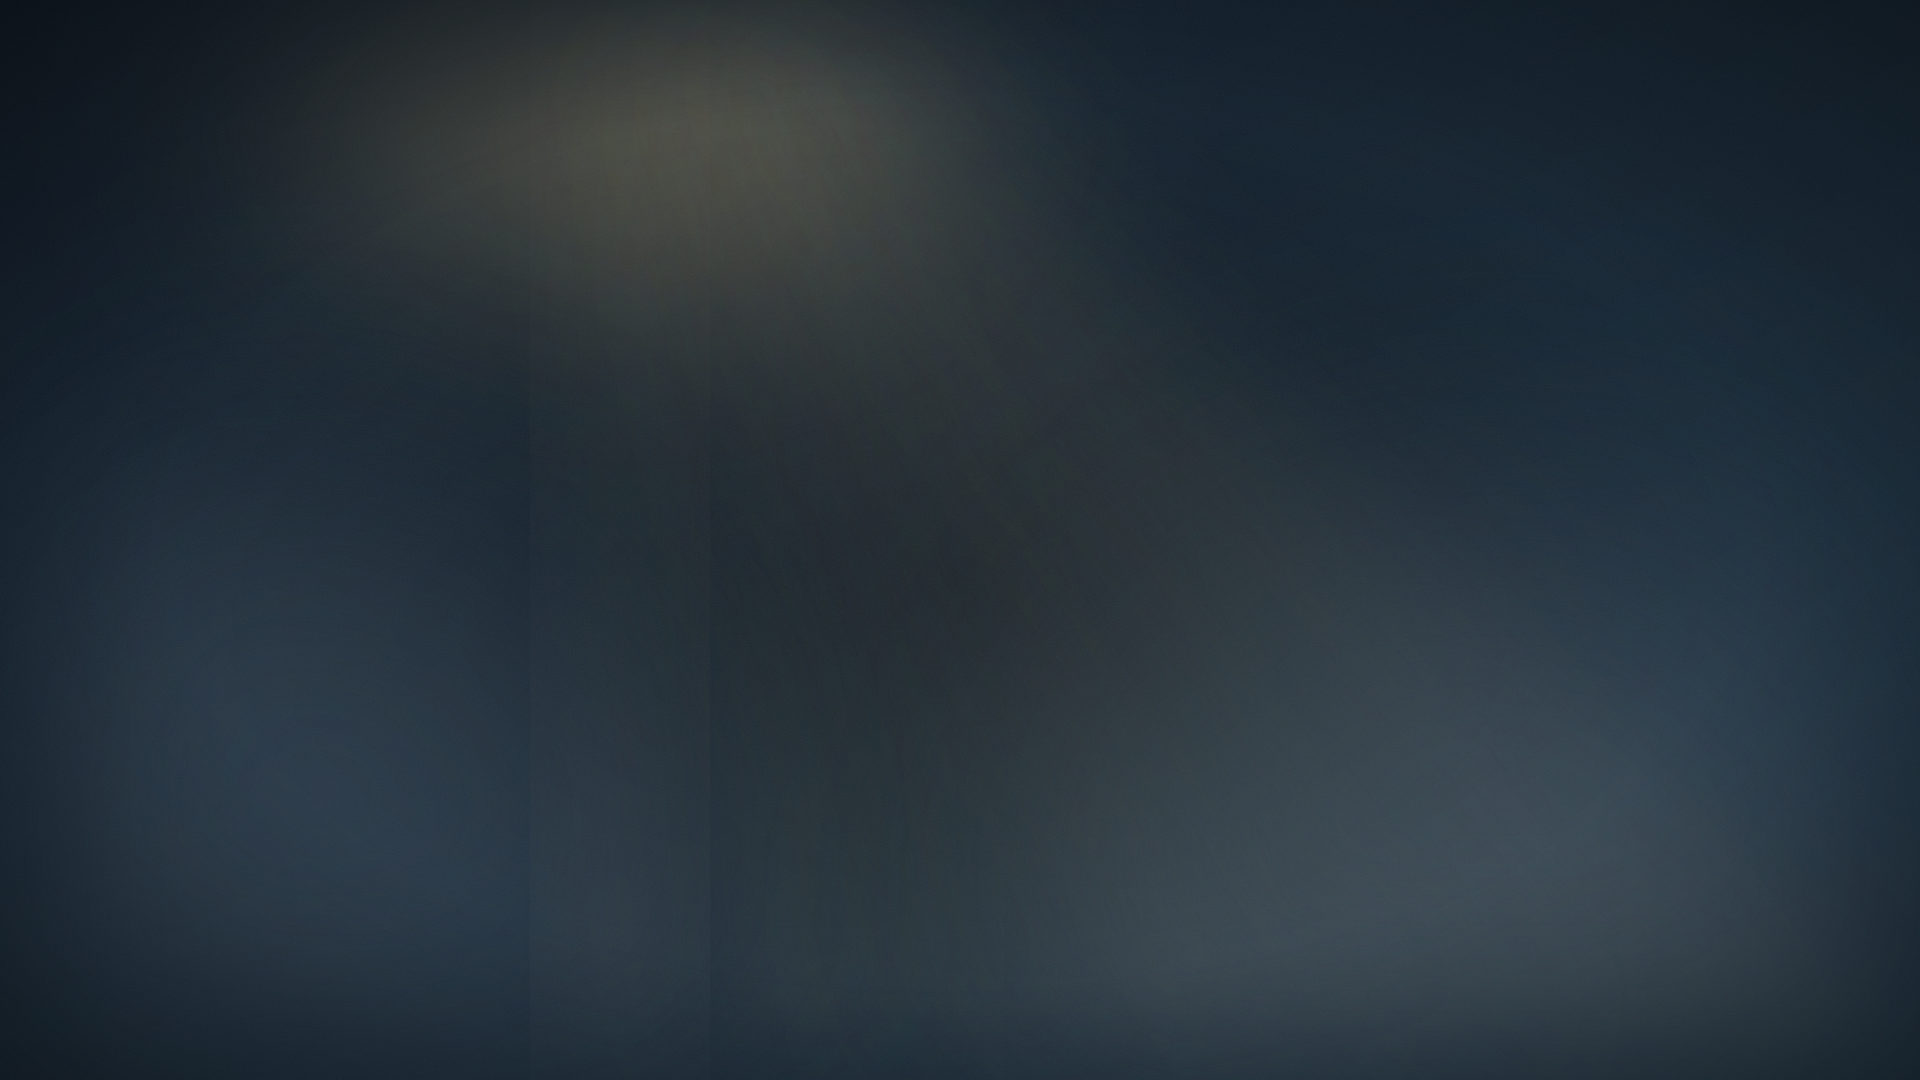
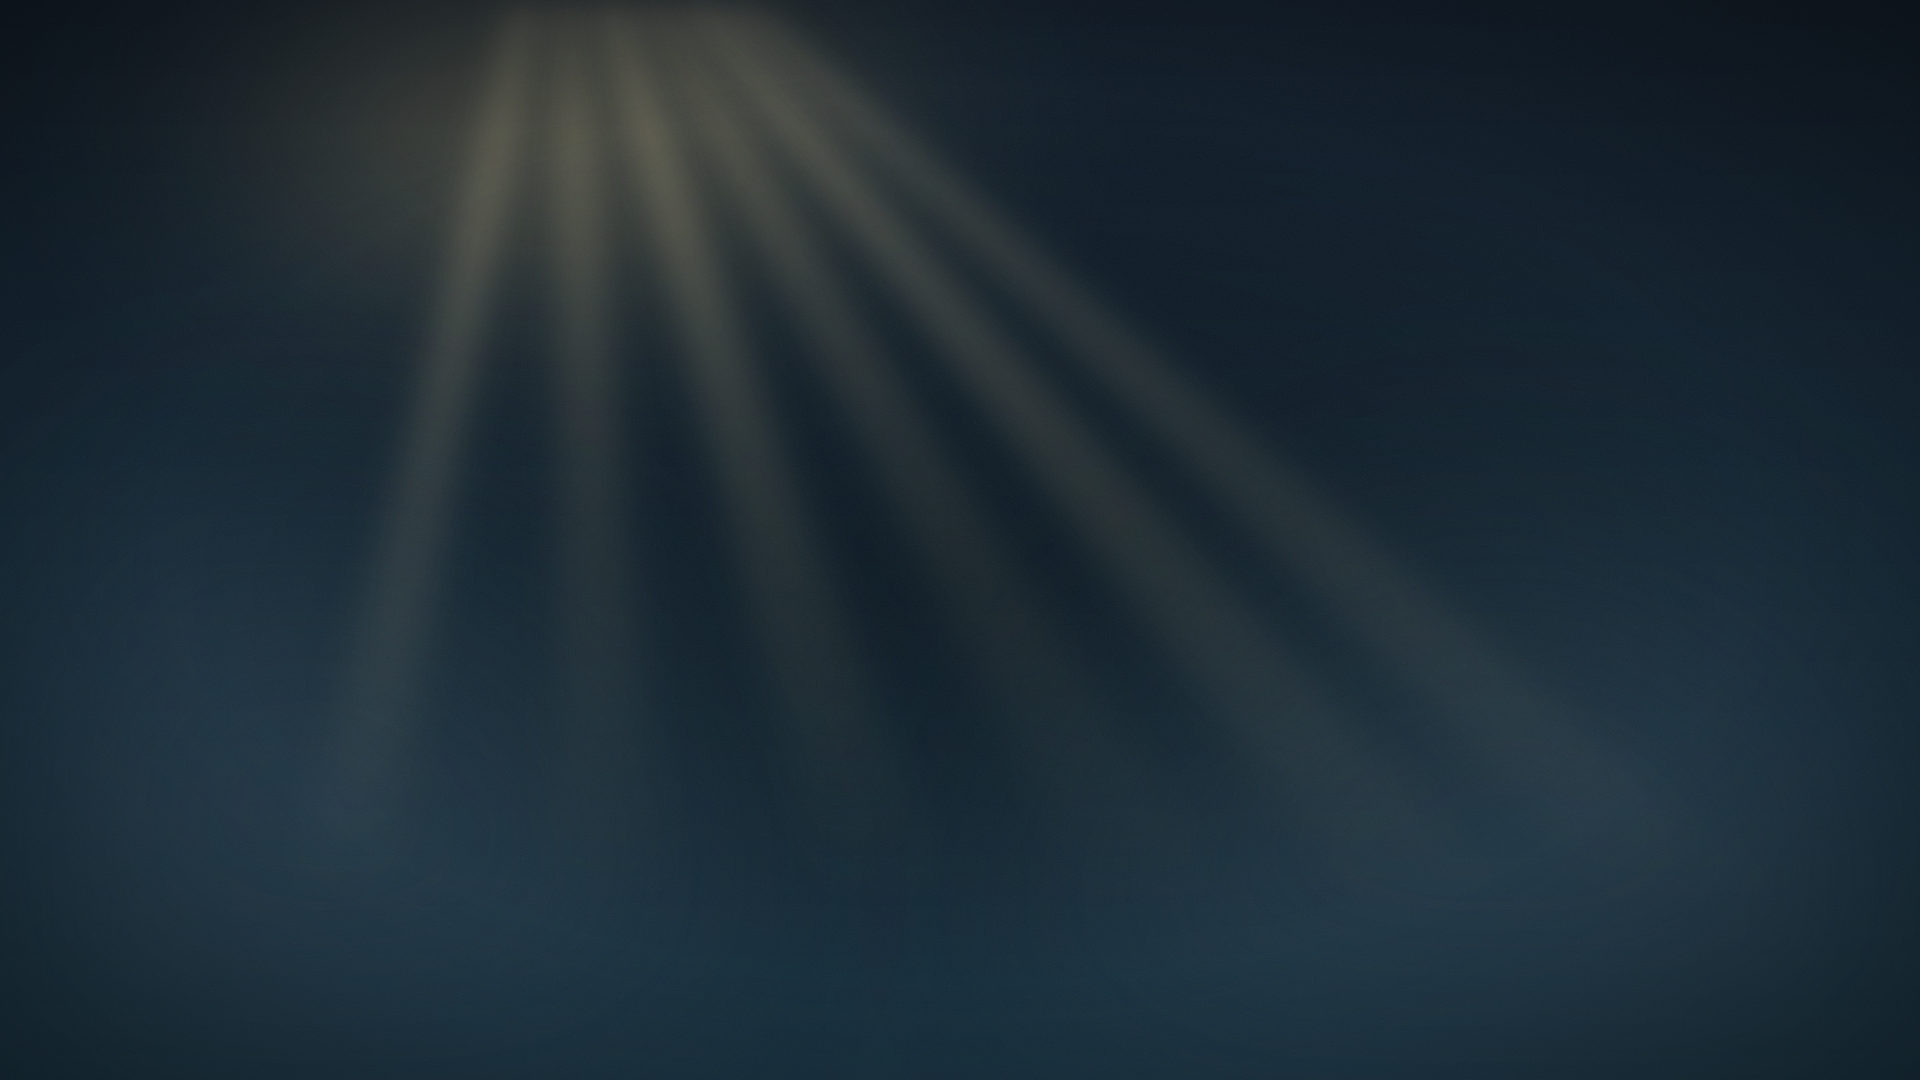
style(engine): visible god-rays for the rays theme

Changed region(s): [[0.5312, 0.5806, 0.8438, 0.9472], [0.2188, 0.1222, 0.2812, 0.3056], [0.6562, 0.55, 0.6875, 0.5806]]

diff --git a/packages/slide-engine/src/themes.ts b/packages/slide-engine/src/themes.ts
@@ -59,7 +59,7 @@ export const BUILTIN_THEMES: Theme[] = [
   },
   {
     id: 'rays', name: '光束 · Rays', description: '云雾间落下柔和光束，沉静而有层次。',
-    background: { kind: 'image', src: '/themes/rays.jpg', approxColor: '#2a363f' },
+    background: { kind: 'image', src: '/themes/rays.jpg', approxColor: '#202f39' },
     colors: { zh: '#FFFFFF', pinyin: '#FFE9B0', title: '#FFFFFF', rule: '#E9C877', badge: '#FFF0C8', meta: '#C9C2A8' },
     shadow: dark('#000000', 0.6), ...base,
   },
